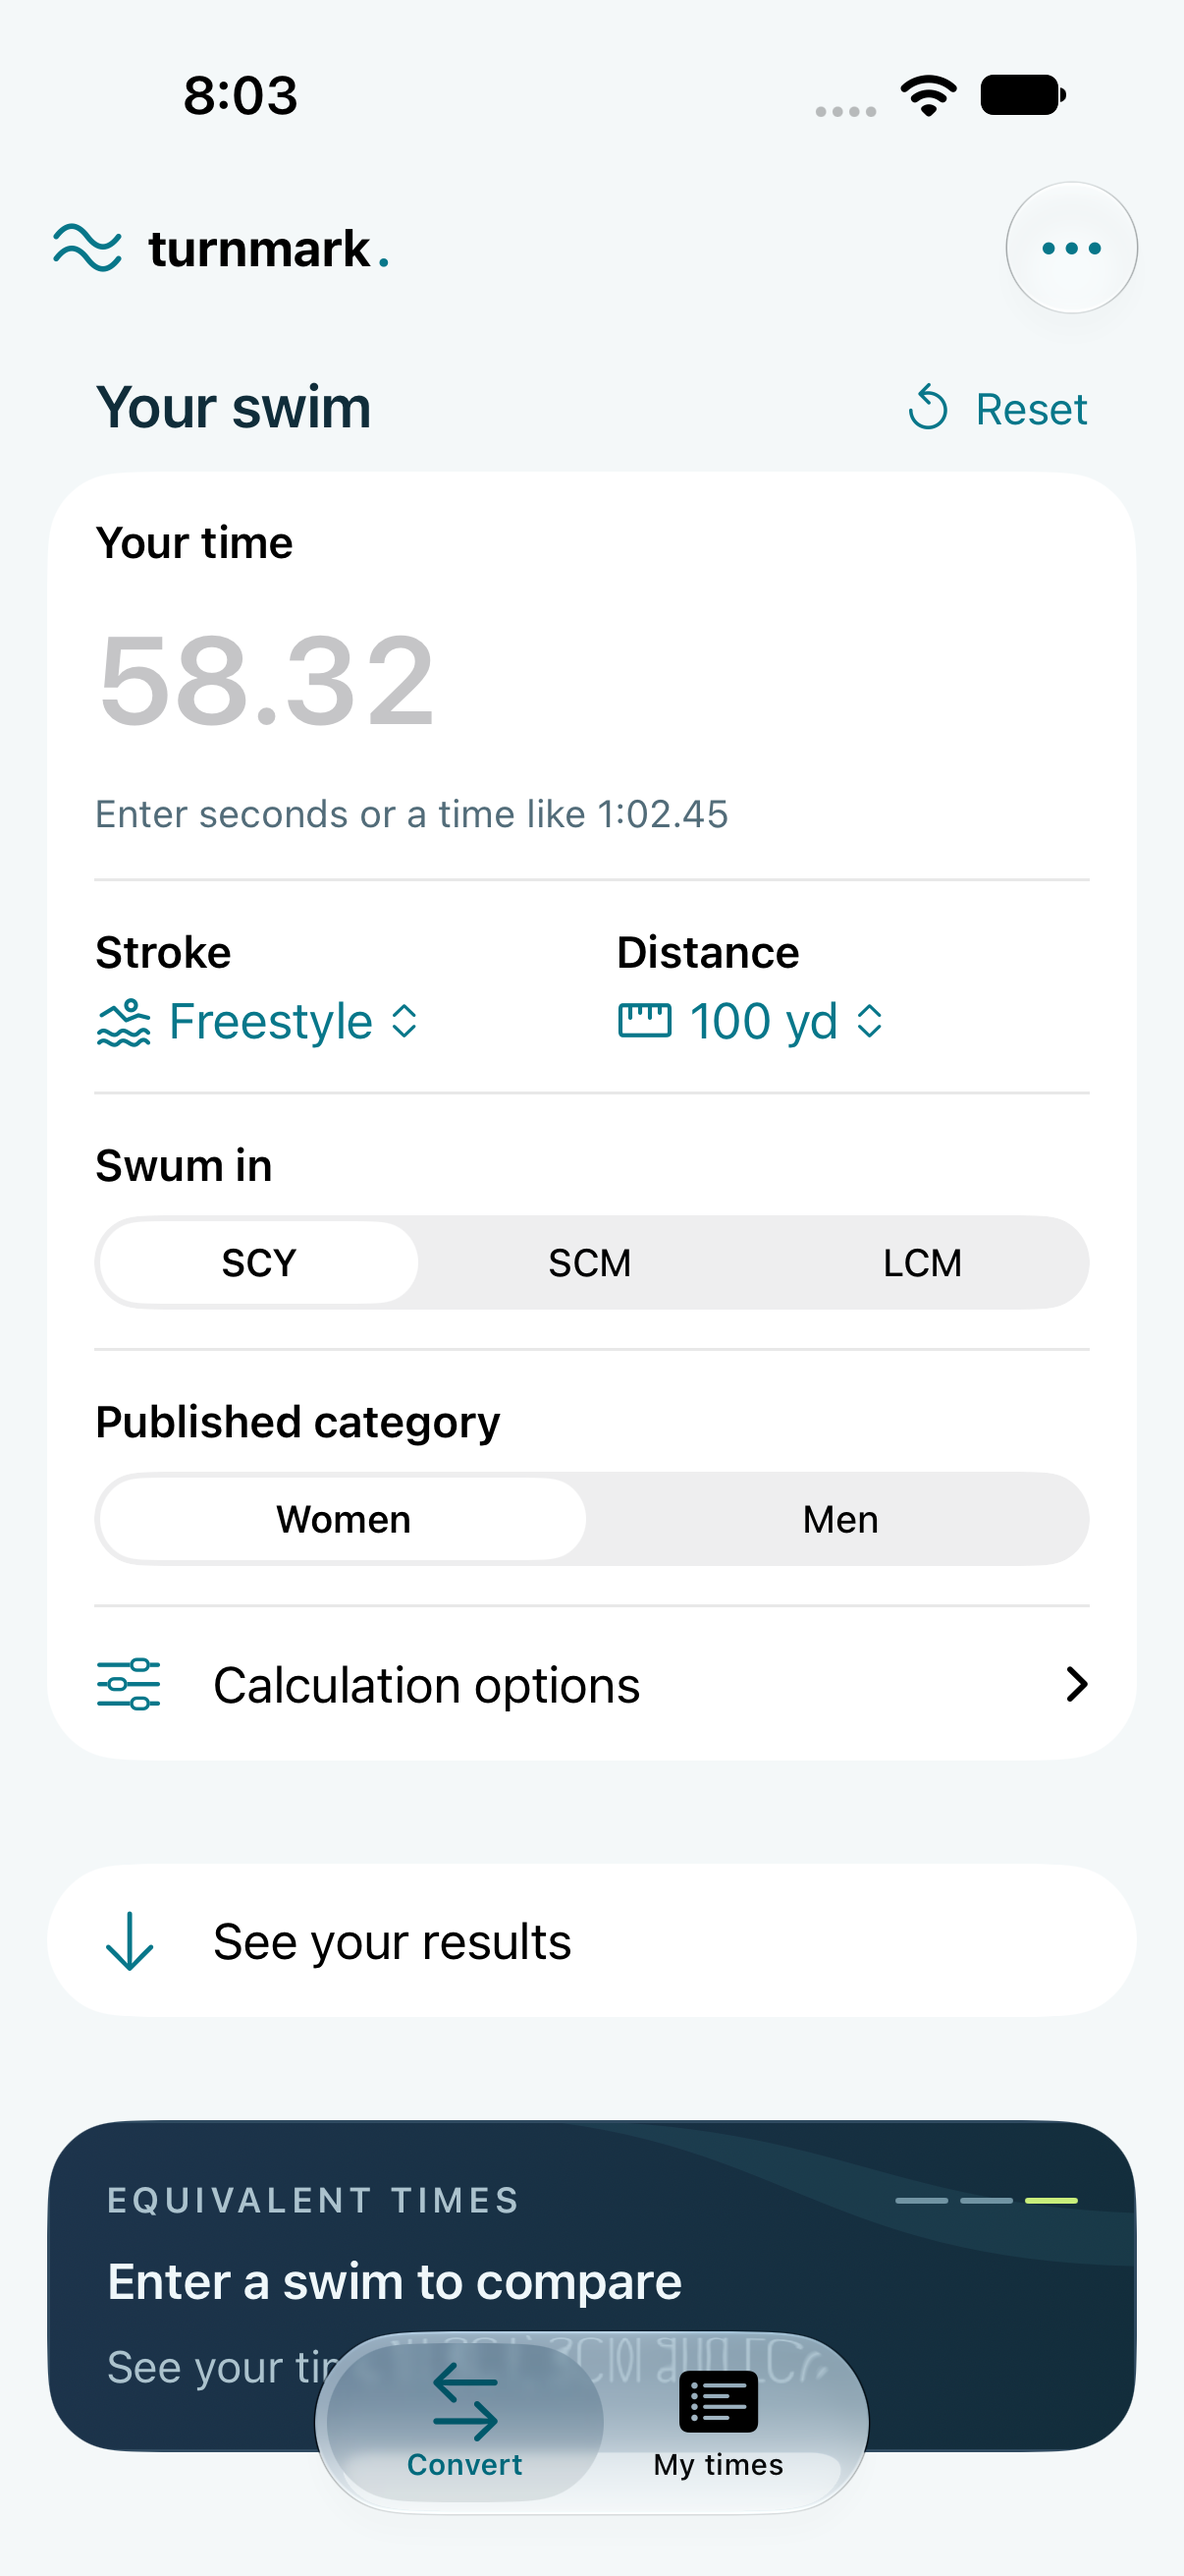
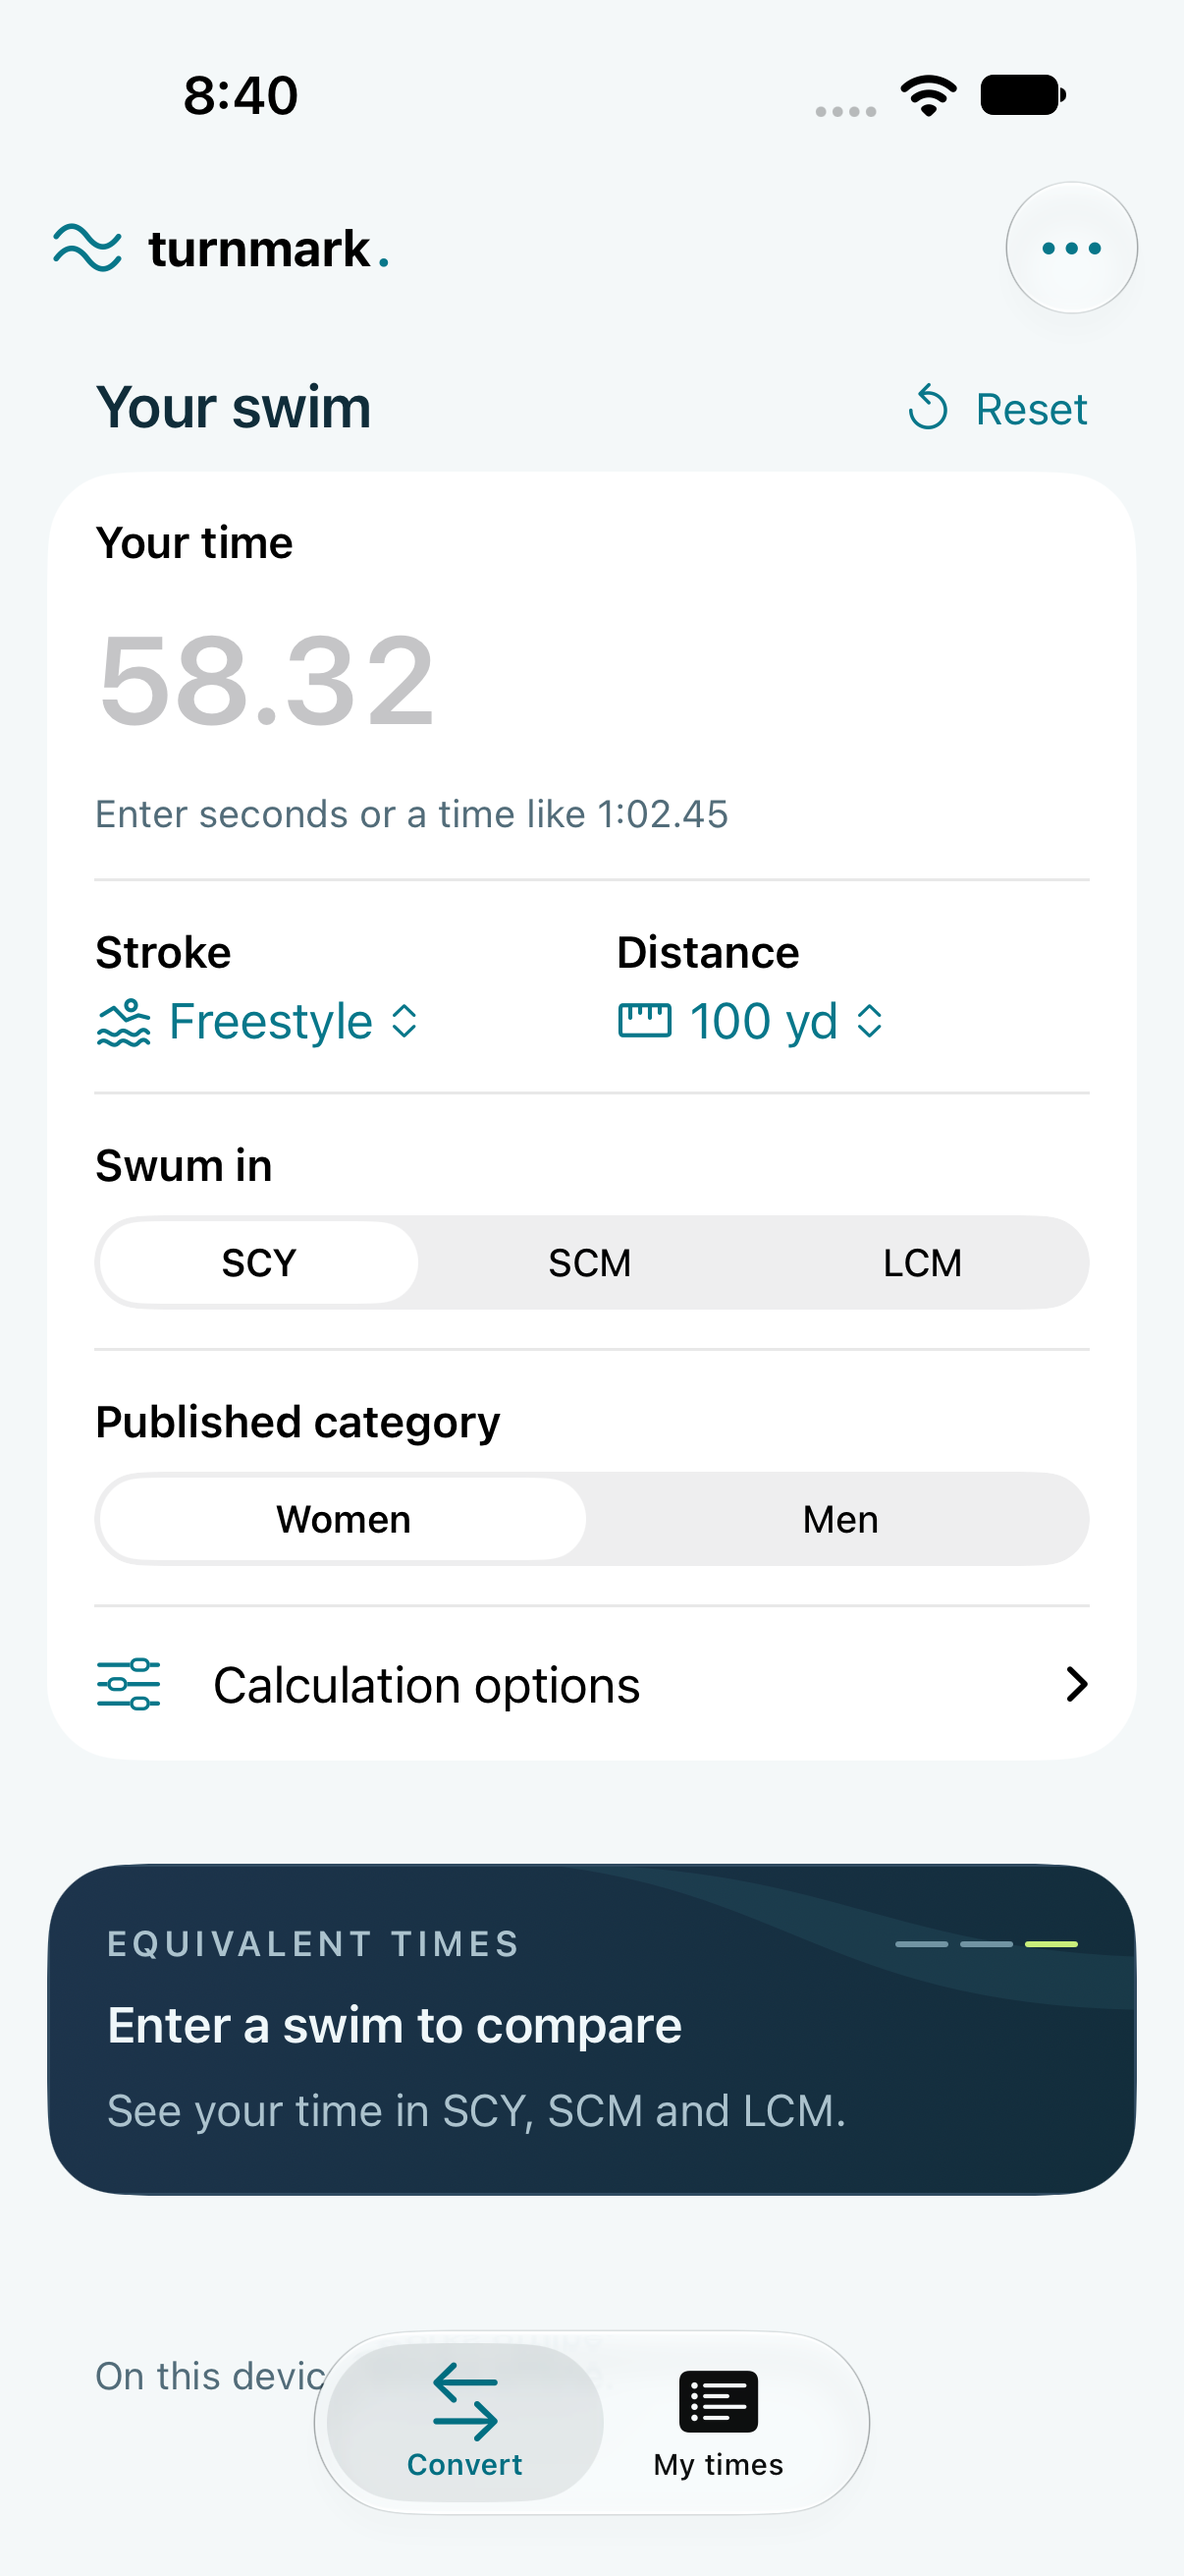
Wait for complete time entry before XCTest assertions

Changed region(s): [[0.0307, 0.7105, 0.9818, 0.9577], [0.1841, 0.0309, 0.2454, 0.0618]]

diff --git a/apps/ios/Sources/TurnmarkApp.swift b/apps/ios/Sources/TurnmarkApp.swift
@@ -293,16 +293,15 @@ private struct TurnmarkView: View {
         ScrollViewReader { scroll in
             Form {
                 inputCard
-                // Keep the Form's row structure stable while the first valid
-                // digit arrives; inserting a section can interrupt text entry.
-                Section {
-                    Button {
-                        dismissTimeEntry()
-                        scroll.scrollTo("comparison", anchor: .top)
-                    } label: { Label("See your results", systemImage: "arrow.down") }
-                        .disabled(!draft.available)
-                        .accessibilityIdentifier("seeResults")
-                }.listRowBackground(TurnmarkPalette.surface)
+                if draft.available {
+                    Section {
+                        Button {
+                            dismissTimeEntry()
+                            scroll.scrollTo("comparison", anchor: .top)
+                        } label: { Label("See your results", systemImage: "arrow.down") }
+                            .accessibilityIdentifier("seeResults")
+                    }.listRowBackground(TurnmarkPalette.surface)
+                }
                 Section {
                     resultContent(compact: true)
                         .listRowInsets(EdgeInsets()).listRowBackground(Color.clear)

diff --git a/apps/ios/UITests/TurnmarkUITests.swift b/apps/ios/UITests/TurnmarkUITests.swift
@@ -266,7 +266,11 @@ final class TurnmarkUITests: XCTestCase {
             if clear.exists { reach(clear, in: app); clear.tap() }
             else { field.tap() }
             field.typeText(text)
-            XCTAssertEqual(field.value as? String, text)
+            // Hosted XCTest can return before the final keyboard events reach
+            // SwiftUI. Wait for the entire value, without retrying the input.
+            let entered = XCTNSPredicateExpectation(predicate: NSPredicate(format: "value == %@", text), object: field)
+            XCTAssertEqual(XCTWaiter.wait(for: [entered], timeout: 5), .completed,
+                "The full time must arrive; observed \(field.value as? String ?? "<no value>")")
         } else {
             field.tap()
             field.typeText(String(repeating: XCUIKeyboardKey.delete.rawValue, count: (field.value as? String ?? "").count) + text)
